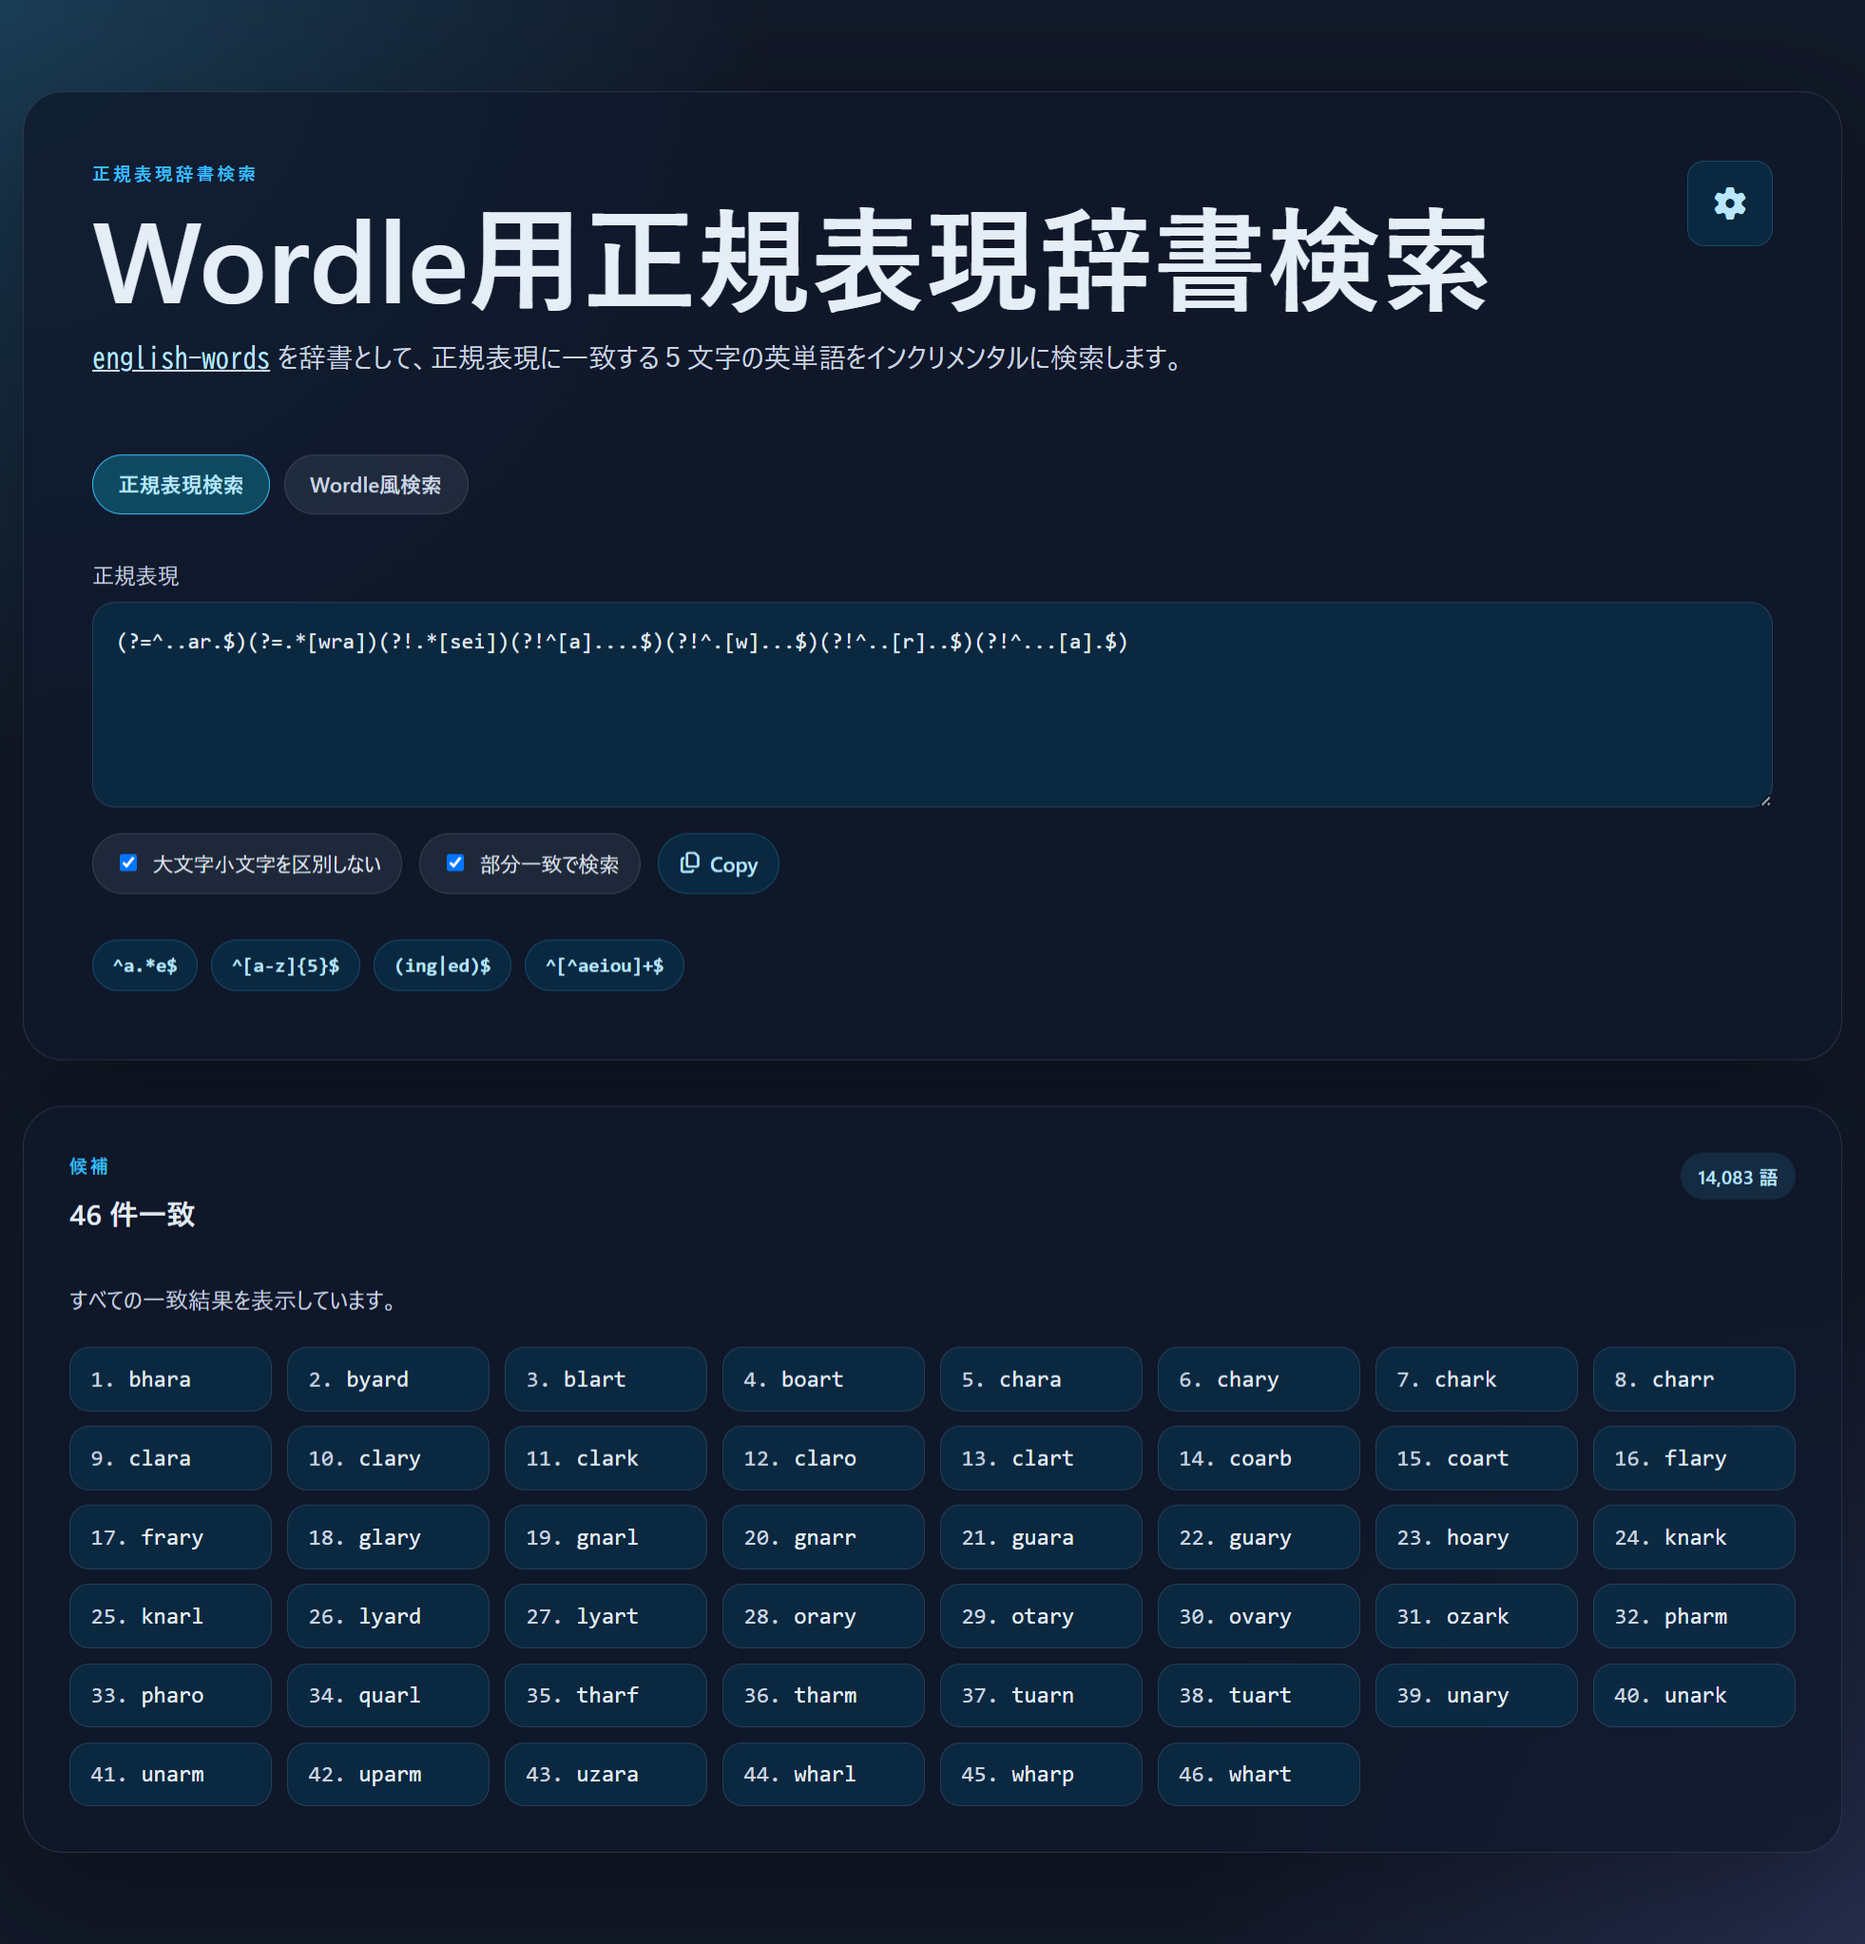
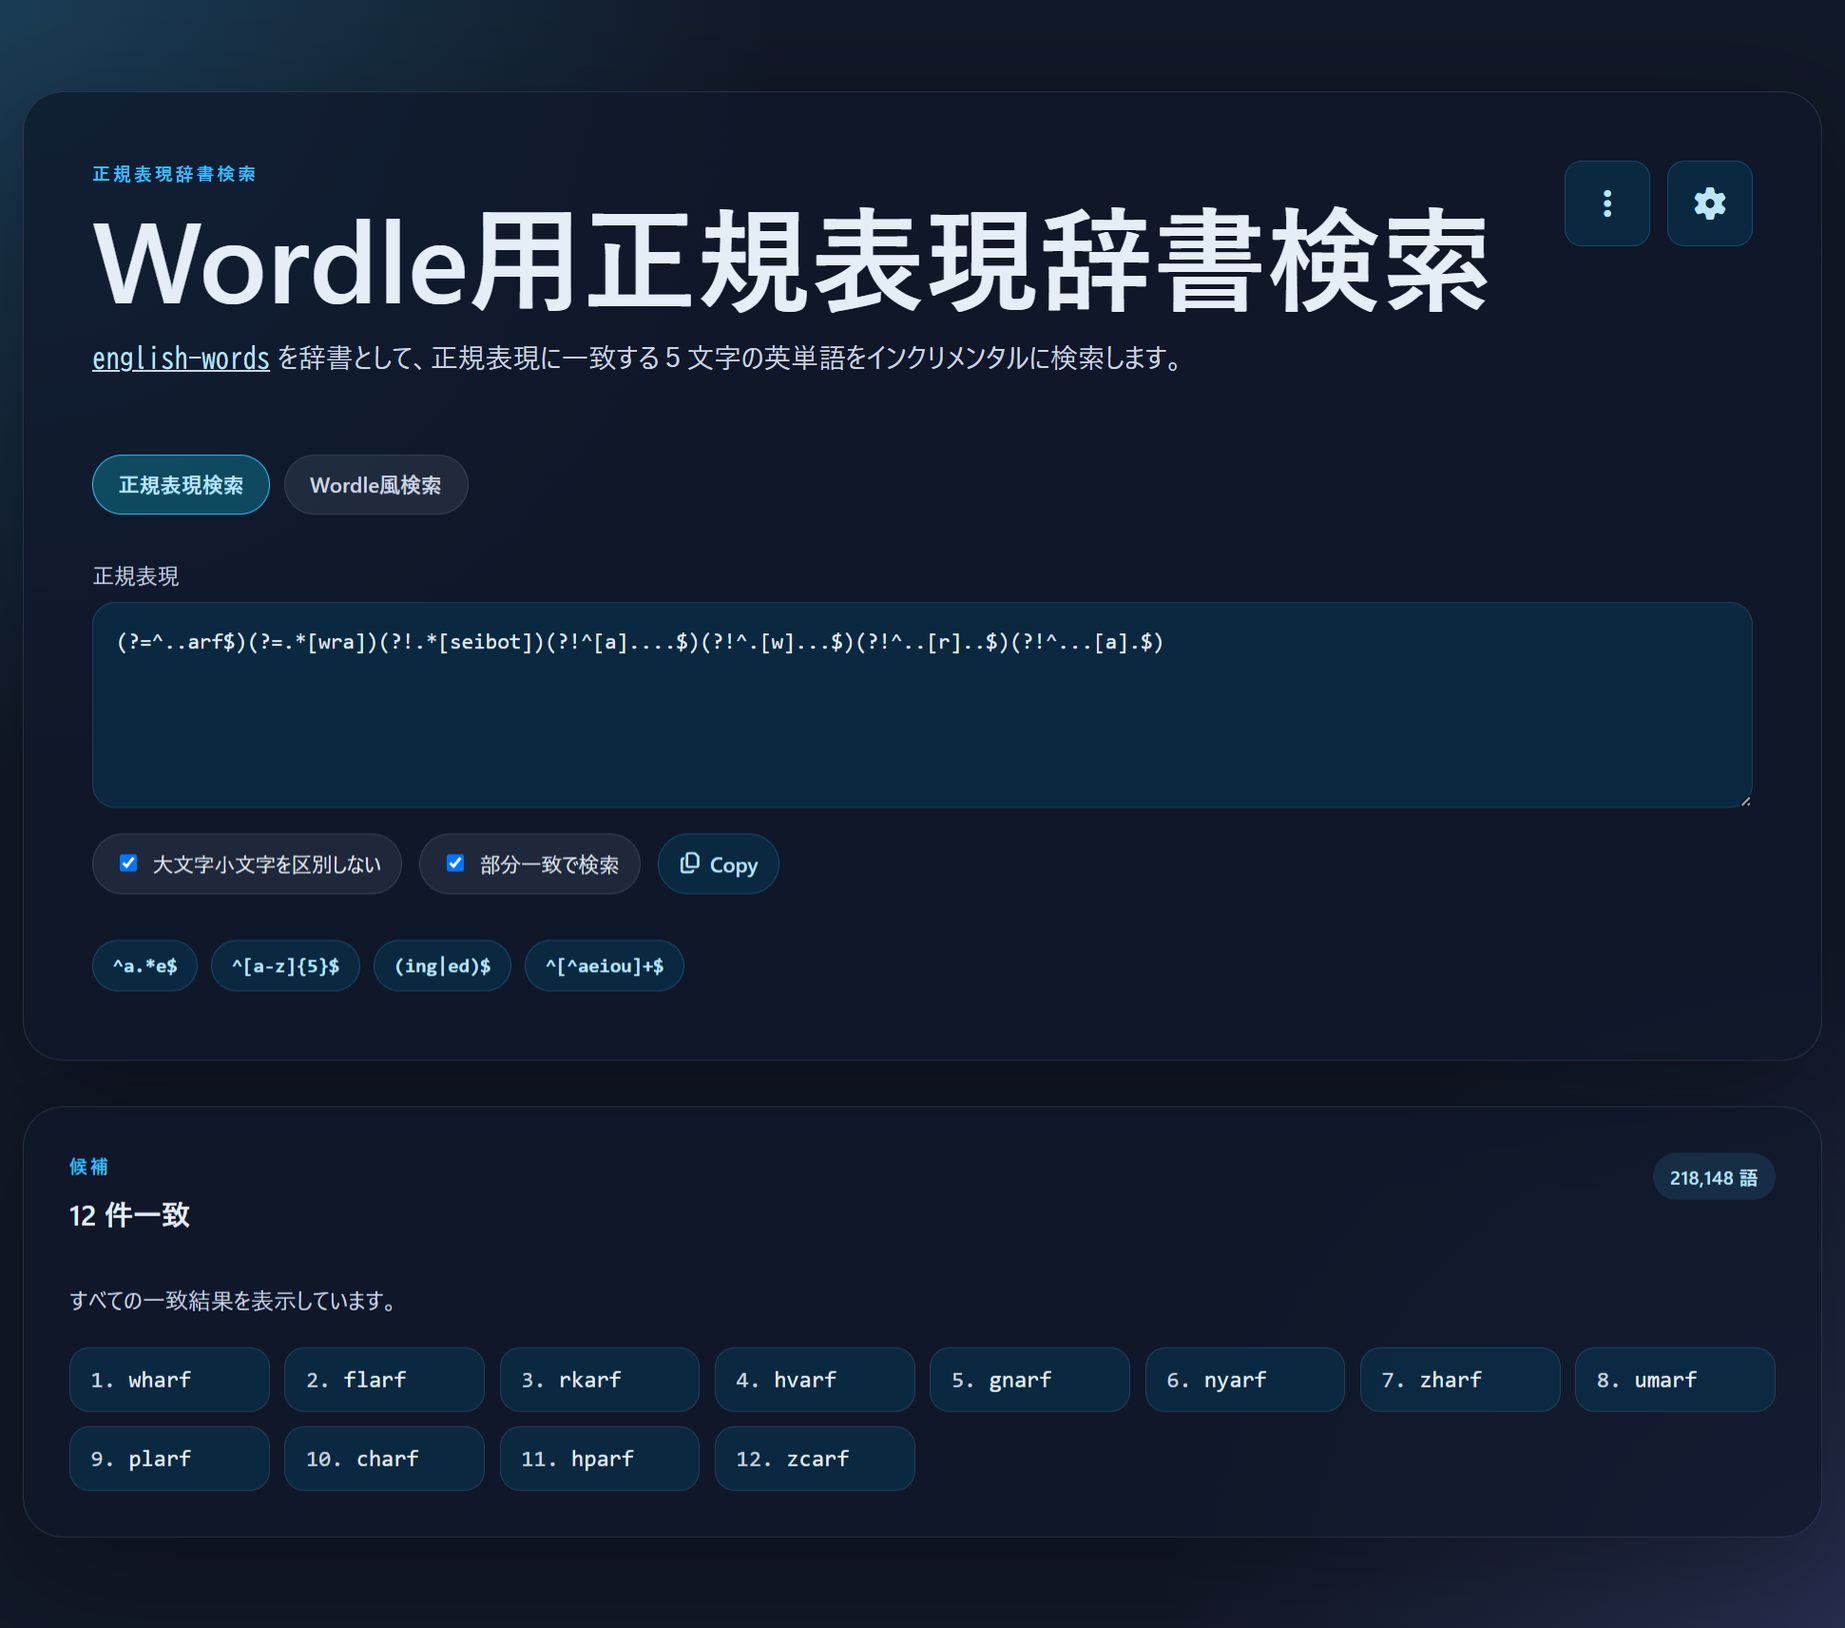
ドキュメント訂正

diff --git a/code/frontend/docs/en/about.md b/code/frontend/docs/en/about.md
@@ -9,6 +9,7 @@ This is the app's core feature.
 Use a regular expression (regex) to specify your search criteria and filter matching words.
 If you're unfamiliar with regex syntax, please refer to the reference sites below.
 - [RegexOne](https://www.regexone.com/?utm_source=chatgpt.com)
+
 ![RegEx search](./images/en-regex.png)
 
 </details>
@@ -16,6 +17,7 @@ If you're unfamiliar with regex syntax, please refer to the reference sites belo
 <details><summary>Wordle-like Search</summary>
 
 This mode allows you to create a regular expression (regex) using a Wordle-style touch keyboard and grid panel, then search for matching words.
+
 ![Wordle-like search](./images/en-wordle.png)
 In this help guide, the following terms are used:
 - Letter Grid

diff --git a/code/frontend/docs/ja/about.md b/code/frontend/docs/ja/about.md
@@ -34,5 +34,3 @@
 - 「クリア」をクリックすると入力内容をすべて削除できます。
 
 </details>
-
-ｍ
